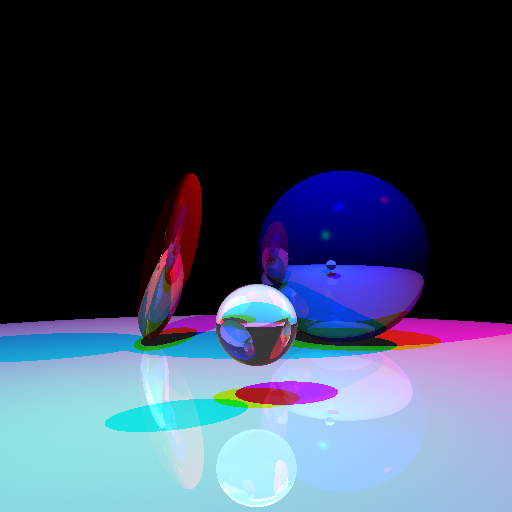
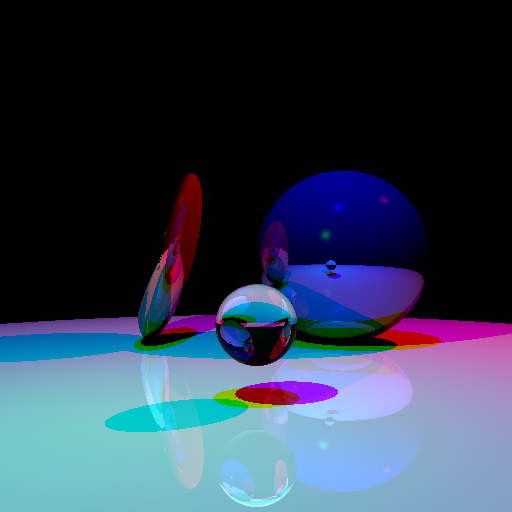
Temporarily disabling ambient light because it over saturates a lot of coloring (especially the refracted light)

diff --git a/src/main.rs b/src/main.rs
@@ -139,7 +139,8 @@ fn trace_ray(scene: &Scene, ray: &Ray, reflections: usize) -> Color {
                 Color::black()
             };
 
-            ambient + lights + reflected + refracted
+            //ambient + 
+            lights + reflected + refracted
         }
     }
 }
